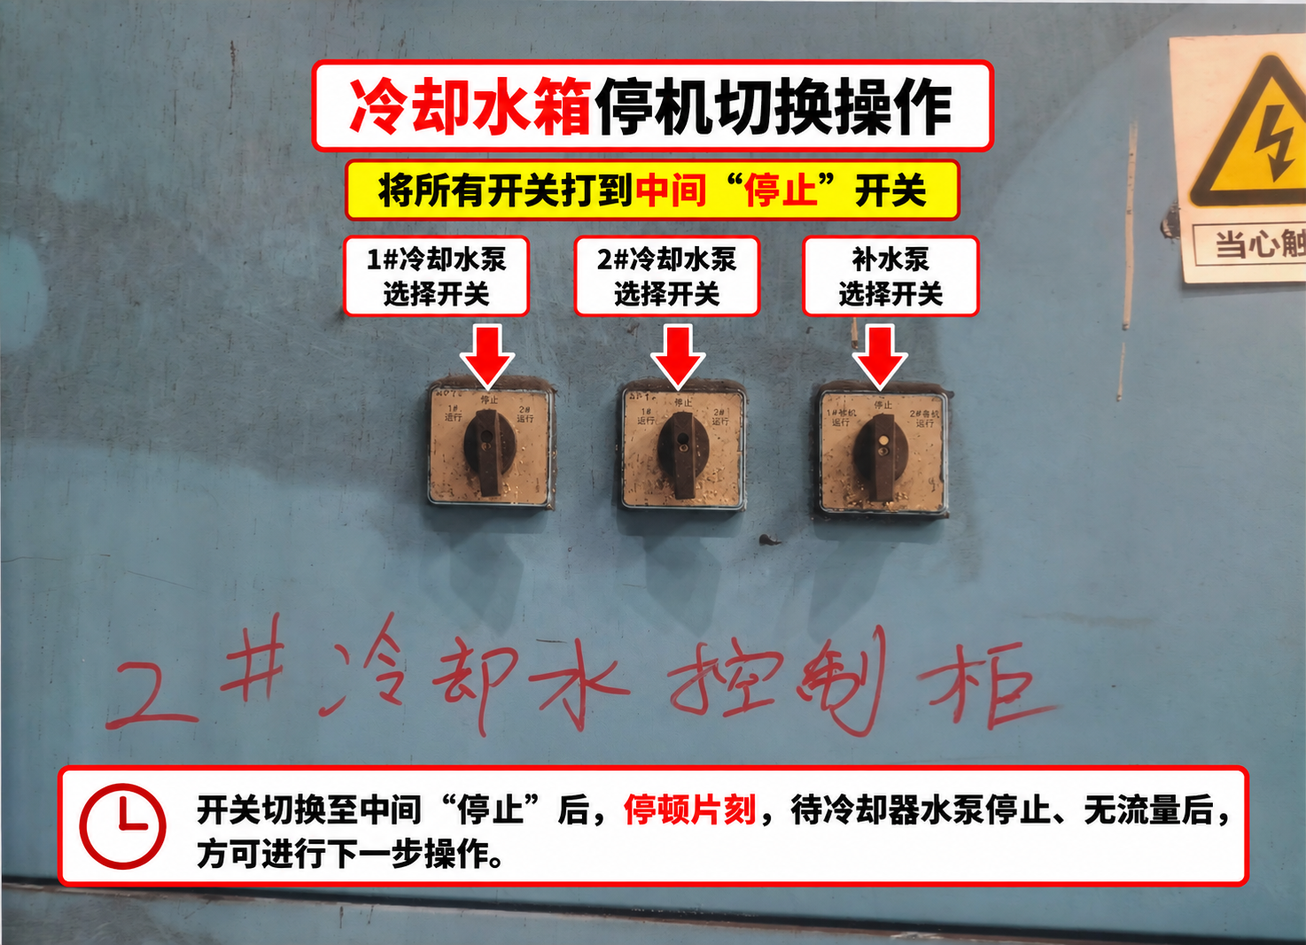
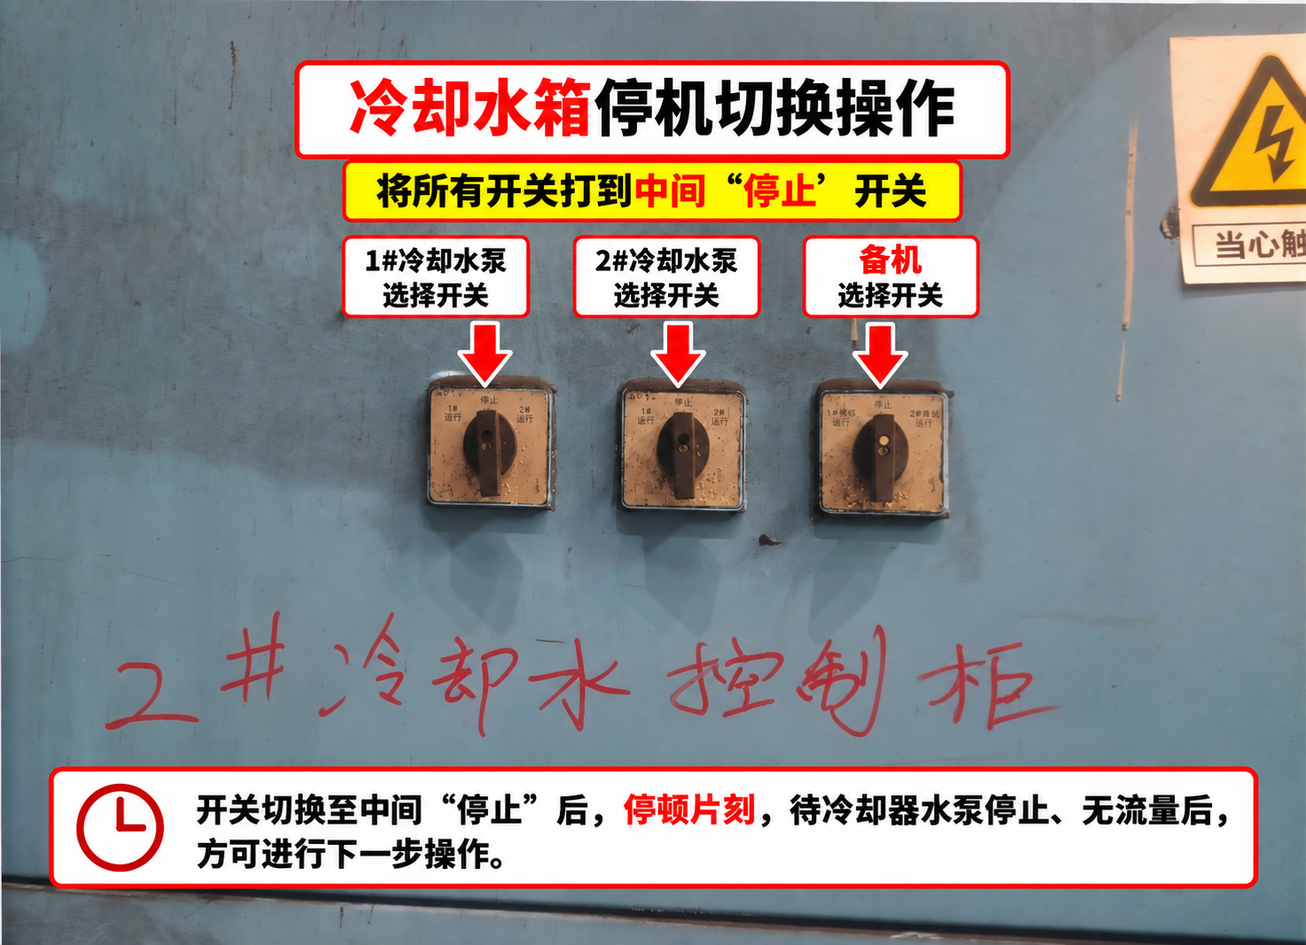
Refine mobile guide UI and chiller switch step

diff --git a/index.html b/index.html
@@ -197,14 +197,202 @@
     }
     @media (min-width: 720px) { .grid.two { grid-template-columns: repeat(2, 1fr); } .grid.three { grid-template-columns: repeat(3, 1fr); } .hero { border-radius: 0 0 18px 18px; } }
     @media (prefers-reduced-motion: reduce) { .hero:after { animation: none; } html { scroll-behavior: auto; } }
+    /*
+      2026 UI/UX 优化：保持原有数据、搜索、详情折叠和 PWA 逻辑不变。
+      以下覆盖层仅收敛视觉风格，并为手机端补充固定导航。
+    */
+    :root {
+      --bg: #f4f7fb;
+      --panel: #ffffff;
+      --ink: #142b45;
+      --muted: #63758a;
+      --blue: #1269ad;
+      --blue2: #2c89cf;
+      --line: #dce5ef;
+      --shadow: 0 2px 8px rgba(20, 43, 69, .07);
+      --soft-shadow: 0 1px 3px rgba(20, 43, 69, .06);
+    }
+    body {
+      background: var(--bg);
+      font-family: -apple-system, BlinkMacSystemFont, "Segoe UI", "Microsoft YaHei", sans-serif;
+      font-size: 16px;
+    }
+    body:before { display: none; }
+    .app { padding: 0 14px calc(92px + env(safe-area-inset-bottom)); }
+    .hero {
+      min-height: 0;
+      margin: 0 -14px;
+      padding: calc(12px + env(safe-area-inset-top)) 20px 20px;
+      background: linear-gradient(135deg, #0b477d, #1269ad);
+    }
+    .hero:before, .hero:after { display: none; }
+    .statusbar { margin-bottom: 14px; font-size: 13px; }
+    .hero h1 { font-size: 23px; text-shadow: none; }
+    .subtitle { margin-top: 4px; font-size: 15px; font-weight: 600; }
+    .brand { margin-top: 9px; padding: 2px 0; border: 0; border-radius: 0; background: transparent; font-size: 10px; letter-spacing: .8px; opacity: .78; }
+    .install-btn { margin: 10px 0 0 8px; }
+    .nav { margin: -8px 4px 14px; position: relative; top: auto; padding: 5px 6px 0; border-radius: 10px; box-shadow: var(--shadow); }
+    .nav button { min-height: 64px; gap: 3px; font-size: 14px; }
+    .nav button:before { width: 30px; height: 30px; border-radius: 8px; font-size: 19px; box-shadow: none; }
+    .nav button:nth-child(4):before { background: #307d69; }
+    .nav button.active:after { height: 3px; background: var(--blue); }
+    .card { margin: 12px 0; padding: 14px; border-radius: 10px; box-shadow: var(--soft-shadow); }
+    .section-title { margin: 20px 2px 9px; }
+    .section-title h2 { font-size: 20px; color: #134e7d; }
+    .section-title a { min-height: 44px; display: inline-flex; align-items: center; padding: 0 6px; color: #38617f; }
+    .search-row { grid-template-columns: 1fr 82px; gap: 8px; margin-top: 0; }
+    input[type="search"] { min-height: 50px; border-radius: 9px; font-size: 16px; }
+    .primary { background: #1269ad; box-shadow: none; }
+    .ghost { border-color: #bdd2e6; color: #145789; background: #f5faff; }
+    .hotline { margin: 9px 0 0; }
+    .chip { min-height: 32px; border-radius: 6px; background: #f7fafc; }
+    #home > .warning, #homeMaintenance, #home .quick-panel { display: none; }
+    .home-core-actions { display: grid; gap: 10px; margin: 16px 0 6px; }
+    .home-primary-action, .home-secondary-action {
+      width: 100%; min-height: 74px; display: flex; align-items: center; text-align: left; color: var(--ink);
+      border: 1px solid var(--line); border-radius: 10px; padding: 14px; background: #fff; box-shadow: var(--soft-shadow);
+    }
+    .home-primary-action { min-height: 92px; border-color: #b9d4e8; background: #edf7ff; }
+    .home-action-icon { width: 42px; height: 42px; flex: 0 0 42px; display: grid; place-items: center; margin-right: 12px; border-radius: 9px; color: #fff; background: #1269ad; font-size: 24px; font-style: normal; }
+    .home-primary-action .home-action-icon { color: #fff; background: #db4b4b; }
+    .home-action-copy { display: grid; gap: 2px; min-width: 0; }
+    .home-action-copy strong { font-size: 18px; line-height: 1.25; }
+    .home-action-copy span { color: var(--muted); font-size: 14px; font-weight: 500; }
+    .home-action-chevron { margin-left: auto; color: #6b8298; font-size: 28px; font-weight: 400; }
+    .home-secondary-actions { display: grid; grid-template-columns: 1fr 1fr; gap: 10px; }
+    .home-secondary-action { min-height: 94px; align-items: flex-start; padding: 12px; }
+    .home-secondary-action .home-action-icon { width: 34px; height: 34px; flex-basis: 34px; margin-right: 8px; font-size: 19px; background: #277e70; }
+    .home-secondary-action.safety .home-action-icon { background: #d78324; }
+    .home-secondary-action .home-action-copy strong { font-size: 16px; }
+    .home-secondary-action .home-action-copy span { font-size: 12px; line-height: 1.35; }
+    .home-secondary-action .home-action-chevron { display: none; }
+    .home-common-card { padding: 4px 14px; }
+    details { margin: 10px 0; border-radius: 10px; box-shadow: var(--soft-shadow); }
+    #faultList details { border-left: 4px solid #d97824; }
+    #faultList details:has(.risk.high) { border-left-color: #d94b4b; }
+    #faultList details:has(.risk.low) { border-left-color: #277e70; }
+    summary { min-height: 60px; padding: 12px; }
+    details .body { padding: 12px; }
+    .kv { margin: 14px 0; }
+    .kv b { color: #154f7d; }
+    .warning { padding: 14px; border-left: 4px solid #d94b4b; background: #fff7f6; }
+    .warning:after { display: none; }
+    .visual-steps { gap: 12px; }
+    .visual-step { padding: 12px; border-radius: 9px; background: #fbfdff; }
+    .visual-step-title { color: #134e7d; font-size: 16px; }
+    .visual-step-text { color: #344d64; font-size: 15px; line-height: 1.55; }
+    .visual-step-img, .pin-img { max-height: 620px; border-radius: 7px; }
+    .image-tap-hint { display: block; margin-top: 7px; color: #55738c; font-size: 12px; text-align: right; }
+    .fault-row { min-height: 62px; padding: 12px 0; }
+    .fault-icon { width: 34px; height: 34px; border-radius: 8px; box-shadow: none; }
+    .fault-title-line strong { font-size: 16px; }
+    .footer { margin: 20px 0 0; border-radius: 10px; box-shadow: none; }
+    #topBtn { right: 14px; bottom: calc(80px + env(safe-area-inset-bottom)); box-shadow: var(--shadow); }
+    .pwa-notice { bottom: calc(80px + env(safe-area-inset-bottom)); right: 70px; box-shadow: var(--shadow); }
+    #offlineNotice { bottom: calc(138px + env(safe-area-inset-bottom)); }
+    .bottom-nav { display: none; }
+    .home-primary-action:active, .home-secondary-action:active, .fault-row:active { transform: scale(.985); }
+    @media (max-width: 719px) {
+      .nav { display: none; }
+      .bottom-nav {
+        position: fixed; z-index: 30; left: 0; right: 0; bottom: 0; display: grid; grid-template-columns: repeat(4, 1fr);
+        min-height: 64px; padding: 6px 6px calc(6px + env(safe-area-inset-bottom)); border-top: 1px solid #d7e2ec; background: rgba(255,255,255,.98); box-shadow: 0 -2px 8px rgba(20,43,69,.08);
+      }
+      .bottom-nav button { min-height: 52px; display: grid; place-items: center; align-content: center; gap: 3px; padding: 3px 2px; border-radius: 8px; color: #5d7184; background: transparent; font-size: 12px; font-weight: 700; }
+      .bottom-nav svg { width: 22px; height: 22px; fill: none; stroke: currentColor; stroke-width: 2.1; stroke-linecap: round; stroke-linejoin: round; }
+      .bottom-nav button.active { color: #1269ad; background: #edf6fd; }
+      .bottom-nav button[data-nav="faults"].active { color: #c64545; background: #fff1f0; }
+      .bottom-nav button[data-nav="safety"].active { color: #b56e22; background: #fff7ee; }
+    }
+    @media (min-width: 720px) { .bottom-nav { display: none; } }
+
+    /* 参考现场处置卡片风格：信息更聚焦，颜色只表达入口和风险。 */
+    .hero {
+      min-height: 236px;
+      padding: calc(18px + env(safe-area-inset-top)) 22px 34px;
+      background: linear-gradient(135deg, #063e77 0%, #075fae 52%, #104b87 100%);
+    }
+    .hero:before {
+      content: "";
+      display: block;
+      position: absolute;
+      inset: 0 0 0 40%;
+      width: auto;
+      height: auto;
+      opacity: .36;
+      background:
+        linear-gradient(132deg, transparent 0 24%, rgba(91,180,255,.48) 24.3% 25%, transparent 25.3% 34%, rgba(135,205,255,.25) 34.3% 35%, transparent 35.3% 48%, rgba(91,180,255,.35) 48.3% 49%, transparent 49.3%),
+        linear-gradient(90deg, transparent 0 70%, rgba(255,255,255,.10) 70.2% 70.7%, transparent 70.9%);
+    }
+    .hero:after { display: block; content: ""; inset: auto 16px 18px auto; width: 134px; height: 44px; opacity: .34; transform: none; animation: none; background: repeating-linear-gradient(164deg, transparent 0 9px, rgba(203,237,255,.8) 10px 12px, transparent 13px 22px); }
+    .statusbar { margin-bottom: 35px; font-size: 14px; font-weight: 700; }
+    .hero h1 { font-size: 30px; font-weight: 800; letter-spacing: .2px; }
+    .subtitle { margin-top: 6px; font-size: 22px; font-weight: 800; }
+    .hero-values { position: relative; z-index: 1; margin: 12px 0 0; color: #bfe1ff; font-size: 16px; font-weight: 600; }
+    .brand { position: absolute; right: 20px; bottom: 12px; margin: 0; color: rgba(255,255,255,.62); }
+    #home > .card:first-child { position: relative; z-index: 2; margin-top: -14px; padding: 14px 12px 12px; border-color: #d2e5f5; border-radius: 16px; box-shadow: 0 8px 22px rgba(10, 62, 111, .14); }
+    .search-row { grid-template-columns: 1fr 92px; }
+    input[type="search"] { min-height: 58px; padding-left: 48px; border-color: #cbdfee; border-radius: 11px; color: #27445f; font-size: 17px; box-shadow: 0 2px 7px rgba(10,66,115,.06); }
+    .search-wrap:before { left: 16px; color: #1269ad; font-size: 31px; }
+    .search-row .primary { min-height: 58px; border-radius: 11px; font-size: 18px; background: linear-gradient(135deg, #1678dc, #075dc4); box-shadow: 0 6px 12px rgba(12,93,195,.2); }
+    .hotline { gap: 9px; padding: 9px 3px 0; font-size: 15px; font-weight: 700; }
+    .hotline:before { content: "热"; display: grid; place-items: center; width: 22px; height: 22px; border-radius: 50%; color: #fff; background: #f05a3f; font-size: 12px; }
+    .hotline > span { display: none; }
+    .chip { min-height: 34px; padding: 0 12px; border-color: #cbdff1; color: #345979; background: #f7fbff; font-size: 14px; }
+    .home-core-actions { gap: 12px; margin-top: 18px; }
+    .home-primary-action { min-height: 148px; padding: 18px 20px; border: 0; border-radius: 17px; color: #fff; background: linear-gradient(135deg, #ff4e5b, #df263b 72%); box-shadow: 0 8px 20px rgba(220, 47, 63, .18); overflow: hidden; position: relative; }
+    .home-primary-action:before { content: ""; position: absolute; right: -16px; bottom: -40px; width: 160px; height: 160px; border: 22px solid rgba(255,255,255,.1); border-radius: 50%; }
+    .home-primary-action .home-action-icon { width: 74px; height: 74px; flex-basis: 74px; margin-right: 18px; border: 8px solid rgba(255,255,255,.3); border-radius: 50%; color: #e83649; background: #fff; }
+    .home-action-icon svg { width: 29px; height: 29px; fill: none; stroke: currentColor; stroke-width: 2.35; stroke-linecap: round; stroke-linejoin: round; }
+    .home-primary-action .home-action-copy { position: relative; z-index: 1; gap: 7px; }
+    .home-primary-action .home-action-copy strong { font-size: 30px; color: #fff; }
+    .home-primary-action .home-action-copy span { color: rgba(255,255,255,.92); font-size: 17px; }
+    .home-primary-action .home-action-chevron { position: relative; z-index: 1; width: 45px; height: 45px; display: grid; place-items: center; border-radius: 50%; color: #dc2a3e; background: rgba(255,255,255,.9); font-size: 41px; line-height: 1; }
+    .home-secondary-actions { gap: 12px; }
+    .home-secondary-action { min-height: 128px; padding: 14px; border-radius: 16px; overflow: hidden; position: relative; }
+    .home-secondary-action:first-child { border-color: #b8dcfa; background: linear-gradient(135deg, #edf8ff, #f8fcff); }
+    .home-secondary-action.safety { border-color: #b9ead1; background: linear-gradient(135deg, #effff6, #fbfffc); }
+    .home-secondary-action:after { content: ""; position: absolute; right: -14px; bottom: -20px; width: 88px; height: 88px; border: 14px solid rgba(39,126,112,.08); border-radius: 50%; }
+    .home-secondary-action .home-action-icon { width: 58px; height: 58px; flex-basis: 58px; margin-right: 10px; border-radius: 13px; color: #fff; background: #1678dc; }
+    .home-secondary-action.safety .home-action-icon { background: #16a370; }
+    .home-secondary-action .home-action-copy { position: relative; z-index: 1; gap: 5px; }
+    .home-secondary-action .home-action-copy strong { color: #123a62; font-size: 20px; }
+    .home-secondary-action .home-action-copy span { color: #52708b; font-size: 13px; }
+    .section-title { margin-top: 28px; }
+    .section-title h2 { position: relative; padding-left: 14px; color: #123a62; font-size: 25px; }
+    .section-title h2:before { content: ""; position: absolute; left: 0; top: .22em; width: 5px; height: 1.05em; border-radius: 4px; background: #1678dc; }
+    .home-common-card { padding: 0 14px; border-radius: 14px; border-color: #d7e5f2; box-shadow: 0 4px 12px rgba(20, 62, 100, .06); }
+    .fault-row { grid-template-columns: 46px 1fr 24px; gap: 13px; min-height: 82px; padding: 12px 0; }
+    .fault-icon { width: 46px; height: 46px; border-radius: 50%; font-size: 20px; background: #1979d7; }
+    .fault-row.high .fault-icon { background: #f0444f; }
+    .fault-row.medium .fault-icon { background: #e89a27; }
+    .fault-title-line { display: grid; gap: 3px; }
+    .fault-title-line strong { color: #163a60; font-size: 17px; }
+    .fault-title-line small { color: #70869d; font-size: 13px; font-weight: 600; }
+    .chev { font-size: 32px; color: #4f6d88; }
+    .bottom-nav { border-radius: 20px 20px 0 0; }
+    .bottom-nav button.active { box-shadow: inset 0 0 0 1px #d8ebfb; }
+    @media (max-width: 380px) {
+      .hero { min-height: 220px; padding-left: 18px; padding-right: 18px; }
+      .hero h1 { font-size: 27px; }
+      .subtitle { font-size: 20px; }
+      .hero-values { font-size: 14px; }
+      .home-primary-action { min-height: 130px; padding: 16px; }
+      .home-primary-action .home-action-icon { width: 62px; height: 62px; flex-basis: 62px; margin-right: 12px; }
+      .home-primary-action .home-action-copy strong { font-size: 26px; }
+      .home-primary-action .home-action-copy span { font-size: 15px; }
+      .home-secondary-action .home-action-icon { width: 48px; height: 48px; flex-basis: 48px; }
+      .home-secondary-action .home-action-copy strong { font-size: 18px; }
+    }
   </style>
 </head>
 <body>
   <main class="app">
     <header class="hero">
-      <div class="statusbar"><span id="currentTime">--:--</span><span>本地手册</span></div>
-      <h1>焊机操作工快速指导</h1>
-      <p class="subtitle">日常维护 · 异常处理 · 安全事项 · 快速查询</p>
+      <div class="statusbar"><span id="currentTime">--:--</span><span>现场快速处置</span></div>
+      <h1>101301 激光焊机</h1>
+      <p class="subtitle">操作工快速处置手册</p>
+      <p class="hero-values">安全 · 稳定 · 高效 · 绿色运行</p>
       <span class="brand">MADE BY FANGPING</span>
       <button id="installBtn" class="install-btn" type="button">安装到桌面</button>
     </header>
@@ -231,11 +419,23 @@
         <p>夹钳异常、剪切异常、激光异常、冷却水异常、液压异常、焊接小车异常时，严禁强行复位。</p>
       </div>
 
-      <div class="section-title"><h2>日常维护</h2><a href="javascript:void(0)" onclick="showSection('maintenance')">查看更多 ›</a></div>
-      <div id="homeMaintenance" class="grid home-maintenance-grid"></div>
+      <div class="home-core-actions" aria-label="核心功能入口">
+        <button class="home-primary-action" type="button" onclick="showSection('faults')">
+          <i class="home-action-icon" aria-hidden="true"><svg viewBox="0 0 24 24"><path d="M12 3 2.8 20h18.4z"/><path d="M12 9v5"/><path d="M12 17h.01"/></svg></i><span class="home-action-copy"><strong>异常处理</strong><span>快速定位设备异常，获取处置方案</span></span><span class="home-action-chevron" aria-hidden="true">›</span>
+        </button>
+        <div class="home-secondary-actions">
+          <button class="home-secondary-action" type="button" onclick="showSection('maintenance')">
+            <i class="home-action-icon" aria-hidden="true"><svg viewBox="0 0 24 24"><path d="M14.7 6.3a4 4 0 0 0-5 5L3 18l3 3 6.7-6.7a4 4 0 0 0 5-5l-2.8 2.1-2.1-2.1z"/><path d="m14 17 3 3 4-4-3-3"/></svg></i><span class="home-action-copy"><strong>日常维护</strong><span>按周期执行<br>保持设备稳定</span></span>
+          </button>
+          <button class="home-secondary-action safety" type="button" onclick="showSection('safety')">
+            <i class="home-action-icon" aria-hidden="true"><svg viewBox="0 0 24 24"><path d="M12 3 20 6v5c0 5.3-3.4 8.7-8 10-4.6-1.3-8-4.7-8-10V6z"/><path d="m8.5 12 2.3 2.3 4.7-4.7"/></svg></i><span class="home-action-copy"><strong>安全事项</strong><span>规程与注意<br>安全生产第一</span></span>
+          </button>
+        </div>
+      </div>
 
-      <div class="section-title"><h2 style="color:#d93025">异常处理手顺</h2><a href="javascript:void(0)" onclick="showSection('faults')">查看更多 ›</a></div>
-      <div class="card"><div id="homeFaults" class="home-fault-list"></div></div>
+      <div class="section-title"><h2>常用处置</h2><a href="javascript:void(0)" onclick="showSection('faults')">查看全部 ›</a></div>
+      <div class="card home-common-card"><div id="homeFaults" class="home-fault-list"></div></div>
+      <div id="homeMaintenance" class="grid home-maintenance-grid" aria-hidden="true"></div>
 
       <div class="card quick-panel">
         <button class="quick-tile" onclick="document.getElementById('searchInput').value='报警'; doSearch('报警')"><b>▣</b>快速查询<span>关键词搜索</span></button>
@@ -273,6 +473,12 @@
       维护人：焊接管理组
     </footer>
   </main>
+  <nav class="bottom-nav" aria-label="底部导航">
+    <button type="button" data-nav="home" class="active" aria-label="首页"><svg viewBox="0 0 24 24" aria-hidden="true"><path d="m3 10 9-7 9 7v10a1 1 0 0 1-1 1H4a1 1 0 0 1-1-1z"/><path d="M9 21v-7h6v7"/></svg><span>首页</span></button>
+    <button type="button" data-nav="maintenance" aria-label="日常维护"><svg viewBox="0 0 24 24" aria-hidden="true"><path d="M14.7 6.3a4 4 0 0 0-5 5L3 18l3 3 6.7-6.7a4 4 0 0 0 5-5l-2.8 2.1-2.1-2.1z"/><path d="m14 17 3 3 4-4-3-3"/></svg><span>日常维护</span></button>
+    <button type="button" data-nav="faults" aria-label="异常处理"><svg viewBox="0 0 24 24" aria-hidden="true"><path d="M12 3 2.8 20h18.4z"/><path d="M12 9v5"/><path d="M12 17h.01"/></svg><span>异常处理</span></button>
+    <button type="button" data-nav="safety" aria-label="安全事项"><svg viewBox="0 0 24 24" aria-hidden="true"><path d="M12 3 20 6v5c0 5.3-3.4 8.7-8 10-4.6-1.3-8-4.7-8-10V6z"/><path d="m8.5 12 2.3 2.3 4.7-4.7"/></svg><span>安全事项</span></button>
+  </nav>
   <div id="imageModal" class="image-modal" onclick="closeImageModal(event)" aria-hidden="true">
     <div class="image-modal-tools" onclick="event.stopPropagation()">
       <button type="button" onclick="zoomModalImage(event, -0.5)" aria-label="缩小图片">−</button>
@@ -336,7 +542,7 @@
       { id: "laser-chiller", title: "激光冷却水箱异常", category: "激光冷却", alarmText: "激光冷却水箱报警", riskLevel: "高风险", productionAllowed: "禁止继续生产", notify: ["班长", "点检", "激光专业人员"], symptoms: ["水箱报警", "温度、压力或流量异常", "激光源无法就绪"], causes: ["液位低", "过滤器堵塞", "水泵或温控异常", "管路阀门异常"], checks: ["确认水箱报警代码", "查看液位和温度", "确认阀门和管路状态"], actions: ["停止激光焊接", "记录水箱报警", "通知专业人员处理", "确认冷却恢复后再启机"], prohibitions: ["禁止缺冷却继续焊接", "禁止屏蔽水箱报警"], records: ["记录报警代码", "记录水温、水压、液位"], steps: ["画面操作步骤预留位置"], mediaImages: [], mediaVideos: [] },
       { id: "laser-chiller-switch", title: "激光焊机冷却水箱切换手顺", category: "激光冷却 / 冷却水箱切换", alarmText: "冷却水箱切换操作", riskLevel: "高风险", productionAllowed: "切换期间禁止焊接", notify: ["班长", "点检", "激光专业人员"], symptoms: [], causes: [], checks: [], actions: [], prohibitions: [], records: [], steps: ["按以下画面顺序完成切换；冷却器水泵未停止或仍有流量时，不得进行下一步。"], visualSteps: [
         { title: "到达冷却水箱切换位置", text: "激光冷却水箱出现异常或进行常规切换时，移步至焊机入口传侧。水箱控制切换开关位于 2#冷却柜，切换阀站位于 1#冷却柜与 2#冷却柜中间。" },
-        { title: "停机并将开关置于中间停止位", text: "将 1#冷却水泵、2#冷却水泵和补水泵选择开关均打到中间“停止”位置。停顿片刻，待冷却器水泵停止、无流量后，再进行下一步。", image: "assets/laser-chiller-switch-step-1.png" },
+        { title: "停机并将开关置于中间停止位", text: "将 1#冷却水泵、2#冷却水泵和补水泵选择开关均打到中间“停止”位置。停顿片刻，待冷却器水泵停止、无流量后，再进行下一步。提示：如出现冷却器故障停机，可跳过此步骤。", image: "assets/laser-chiller-switch-step-1.png" },
         { title: "切换至 2#机的阀门位置", text: "当前为 1#机使用状态时，切换至 2#机：将所有橘红色阀顺时针旋转 90°，由水平变为垂直状态，共计 12 个阀门。", image: "assets/laser-chiller-switch-step-2.png" },
         { title: "确认 2#机运行与 1#机备机状态", text: "左侧开关切换到 2#机运行，中间开关切换到 2#机运行，右侧开关切换到 1#备机；确认 2#机正常运行、1#机处于备用状态。", image: "assets/laser-chiller-switch-step-3.png" }
       ], mediaImages: [], mediaVideos: [] },
@@ -384,7 +590,7 @@
     function renderVisualSteps(item) {
       if (!item.visualSteps || !item.visualSteps.length) return '';
       return '<div class="kv"><b>图文操作步骤</b><div class="visual-steps">' + item.visualSteps.map(function(step, index){
-        return '<div class="visual-step"><span class="visual-step-title">' + (index + 1) + '. ' + escapeHtml(step.title) + '</span><p class="visual-step-text">' + escapeHtml(step.text) + '</p>' + (step.image ? '<img class="visual-step-img" src="' + step.image + '" alt="' + escapeHtml(step.title) + '" onclick="openImageModal(event, this.src, this.alt)">' : '') + '</div>';
+        return '<div class="visual-step"><span class="visual-step-title">' + (index + 1) + '. ' + escapeHtml(step.title) + '</span><p class="visual-step-text">' + escapeHtml(step.text) + '</p>' + (step.image ? '<img class="visual-step-img" src="' + step.image + '" alt="' + escapeHtml(step.title) + '" onclick="openImageModal(event, this.src, this.alt)"><span class="image-tap-hint">点击查看大图</span>' : '') + '</div>';
       }).join('') + '</div></div>';
     }
     function attachLaserDiagnosisSteps() {
@@ -410,7 +616,7 @@
     }
     function showSection(id) {
       document.querySelectorAll('.section').forEach(function(s){ s.classList.toggle('active', s.id === id); });
-      document.querySelectorAll('.nav button').forEach(function(b){ b.classList.toggle('active', b.dataset.nav === id); });
+      document.querySelectorAll('.nav button, .bottom-nav button').forEach(function(b){ b.classList.toggle('active', b.dataset.nav === id); });
       window.scrollTo(0, 0);
     }
     function openMaintenance(id) { showSection('maintenance'); setTimeout(function(){ var el = document.getElementById('m-' + id); if (el) { el.open = true; el.scrollIntoView({behavior:'smooth', block:'start'}); } }, 60); }
@@ -444,7 +650,7 @@
     }
     function renderFaults() {
       var common = ["clamp-not-in-position", "gas-pressure-low", "welding-car", "cooling-water-low"];
-      document.getElementById('homeFaults').innerHTML = common.map(function(id){ var f = faultItems.find(function(x){ return x.id === id; }); var medium = f.riskLevel.indexOf('中') >= 0; return '<button class="fault-row ' + (medium ? 'medium' : 'high') + '" onclick="openFault(\'' + f.id + '\')"><span class="fault-icon">!</span><span class="fault-title-line"><strong>' + escapeHtml(f.title) + '</strong></span><span class="chev">›</span></button>'; }).join('');
+      document.getElementById('homeFaults').innerHTML = common.map(function(id, index){ var f = faultItems.find(function(x){ return x.id === id; }); var medium = f.riskLevel.indexOf('中') >= 0; return '<button class="fault-row ' + (medium ? 'medium' : 'high') + '" onclick="openFault(\'' + f.id + '\')"><span class="fault-icon">' + (index + 1) + '</span><span class="fault-title-line"><strong>' + escapeHtml(f.title) + '</strong><small>' + escapeHtml(f.productionAllowed) + '</small></span><span class="chev">›</span></button>'; }).join('');
       document.getElementById('faultList').innerHTML = faultItems.map(function(f){ return faultCard(f, ''); }).join('');
     }
     function renderSafety() {
@@ -594,7 +800,7 @@
       var requestedSection = hashValue || String(queryValue).toLowerCase();
       if (sectionMap[requestedSection]) { showSection(sectionMap[requestedSection]); }
     }
-    document.querySelectorAll('.nav button').forEach(function(b){ b.addEventListener('click', function(){ showSection(b.dataset.nav); }); });
+    document.querySelectorAll('.nav button, .bottom-nav button').forEach(function(b){ b.addEventListener('click', function(){ showSection(b.dataset.nav); }); });
     document.getElementById('quickChips').innerHTML = quickKeywords.map(function(k){ return '<button class="chip" data-key="' + k + '">' + k + '</button>'; }).join('');
     document.getElementById('quickChips').addEventListener('click', function(e){ if (e.target.dataset.key) doSearch(e.target.dataset.key); });
     document.getElementById('searchBtn').addEventListener('click', function(){ doSearch(); });
